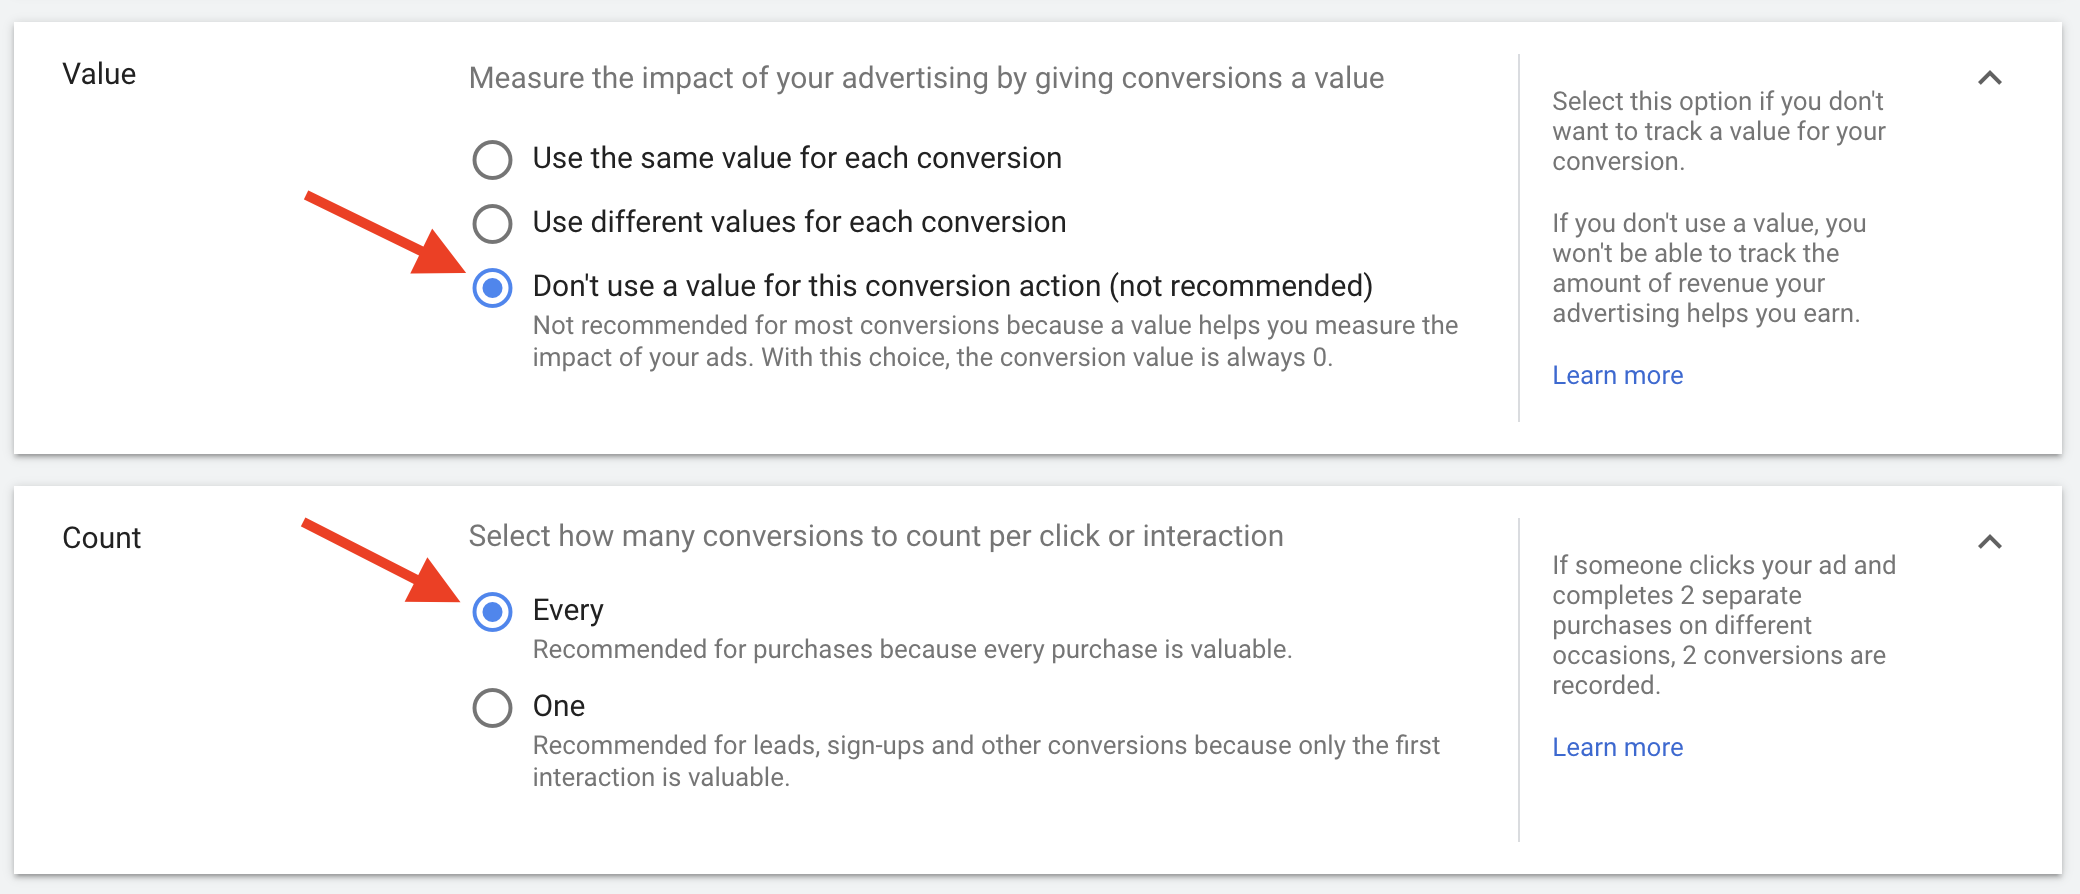
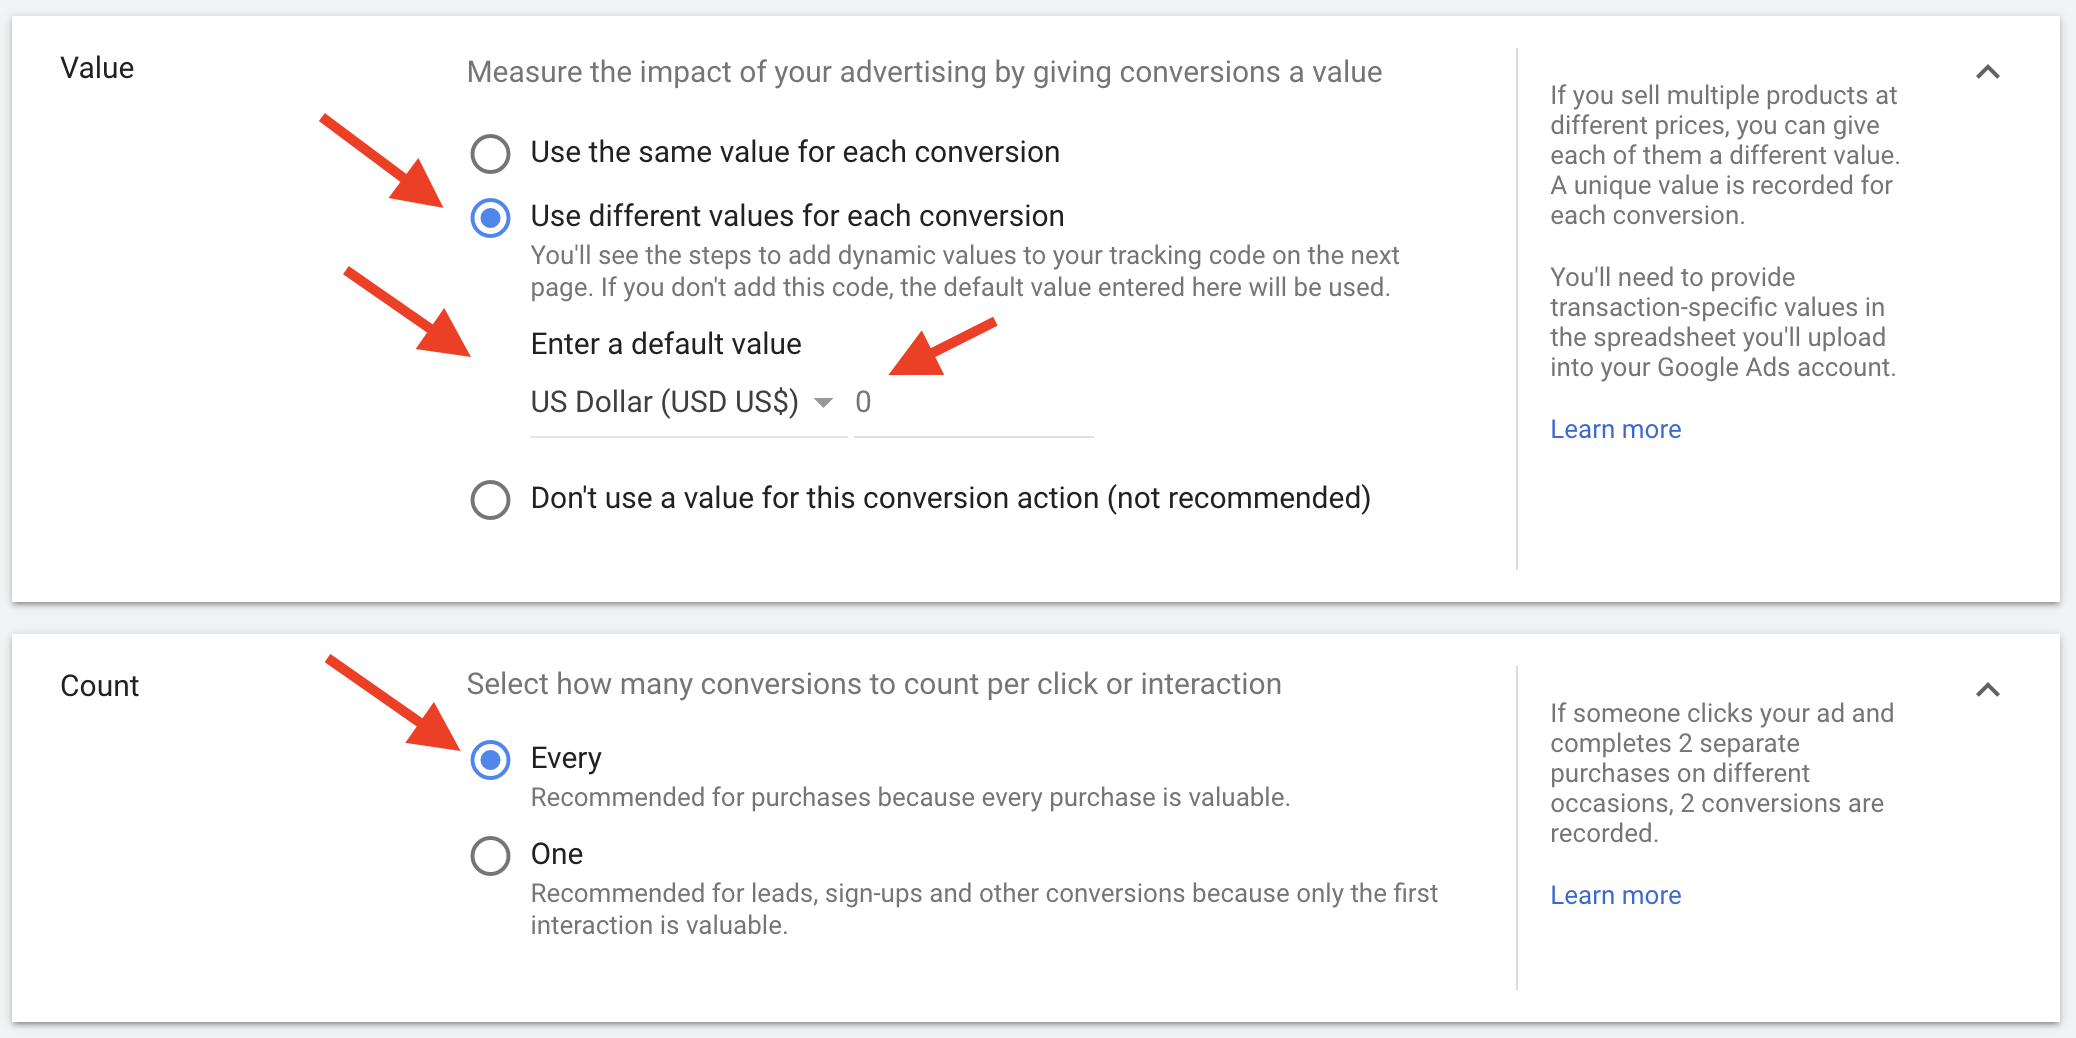
improvement for tROAS strategies

diff --git a/_docs/guides/google-ads-marketing-automation.md b/_docs/guides/google-ads-marketing-automation.md
@@ -3,7 +3,7 @@ layout: page
 section: guides
 navigation_title: "Google Ads marketing automation"
 title: "Google Ads marketing automation"
-date: 2021-02-25
+date: 2021-03-04
 ---
 
 When you run ads with Google Ads, you may want to see whether clicks on your ad led a customer to take a certain action, such as a purchase on your website, calling your business, or downloading an app.
@@ -29,12 +29,16 @@ date | DATE | REQUIRED
 gclid | STRING | REQUIRED
 external_attribution_credit | FLOAT | REQUIRED
 conversion_date_time | TIMESTAMP | REQUIRED
+conversion_value | FLOAT | OPTIONAL
+currency_code | STRING | REQUIRED if `conersion_value` is used
 
 Where:
 - `date` - the date when conversion happened (good to use for partitioning);
 - `gclid` - Google click identifier (is sent in a `gclid=xxxxx` format within the query string);
 - `external_attribution_credit` - how much credit you attribute to the click (value from from 0 to 1);
 - `conversion_date_time` - exact time of the conversion with a timezone;
+- `conversion_value` - how much value (i.e. revenue/profit) is attributed to the click;
+- `currency_code` - the currency of the attributed conversion value in the [ISO 4217](https://en.wikipedia.org/wiki/ISO_4217){:target="blank"} format;
 
 > If you use SegmentSteam's AI-driven multi-touch attribution - this table will be prepared for you by the implementation team.
 
